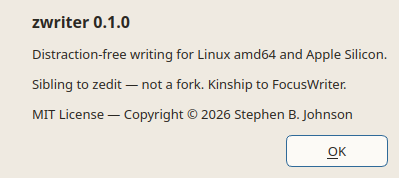
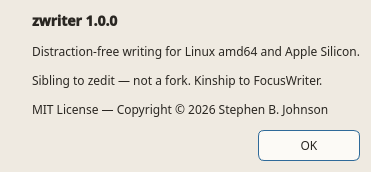
Release 1.0.0
- project(zwriter VERSION 1.0.0): About, version.hpp and CPack names
  (zwriter-1.0.0-Linux-amd64.deb, zwriter-1.0.0-Darwin.dmg).
- ODT meta:generator now reports the real version instead of a
  hard-coded "zwriter/0.1".
- Add CHANGELOG.md with the 1.0.0 entry.
- README: 1.0.0 status and Releases link; spell out the macOS .dmg
  caveat (bare binary, Homebrew Qt, unsigned); refresh about.png.

diff --git a/src/DocumentMeta.cpp b/src/DocumentMeta.cpp
@@ -1,4 +1,5 @@
 #include "DocumentMeta.hpp"
+#include "version.hpp"
 
 #include <QTimeZone>
 
@@ -108,7 +109,7 @@ QString buildMetaXml(const DocumentMeta &meta)
     if (meta.lastEdited.isValid()) {
         w.writeTextElement(QStringLiteral("dc:date"), toOdfDate(meta.lastEdited));
     }
-    w.writeTextElement(QStringLiteral("meta:generator"), QStringLiteral("zwriter/0.1"));
+    w.writeTextElement(QStringLiteral("meta:generator"), QStringLiteral("zwriter/") + QString::fromUtf8(zwriter::kVersionString));
 
     auto writeUser = [&w](const QString &name, const QString &value) {
         w.writeStartElement(QStringLiteral("meta:user-defined"));

diff --git a/CHANGELOG.md b/CHANGELOG.md
@@ -1,0 +1,44 @@
+# Changelog
+
+All notable changes to zwriter. Versions follow [Semantic Versioning](https://semver.org/);
+the version lives only in `project(zwriter VERSION …)` in `CMakeLists.txt`.
+
+## [1.0.0] — 2026-09-24
+
+First stable release. Linux amd64 and Apple Silicon only.
+
+### Features
+- Distraction-free Qt 6 Widgets writer: hide-away chrome (Esc to pin/unpin, F11 full screen),
+  a quiet toolbar (font, size, B/I/U, paragraph style) and five menus: File, Edit, Format, View, Help.
+- Files: ODT is the native default save format; TXT and basic RTF open/save; PDF export only.
+  Open files from the command line or a file manager (Open With / double-click).
+- Full Page view (default on): multi-page A4 at true physical size, stacked pages, Page N of M
+  in the status bar; print and PDF match the screen. Default body font is Courier-class
+  monospace at 12 pt.
+- Themes: Paper and ink (paper-white, default) and Dark room.
+- Headers and footers with `{page}` / `{pages}` tokens; page numbers are opt-in
+  (Format → Page Numbers, off by default).
+- Manual page breaks (Ctrl+Enter), tables (insert, merged cells from ODT, add/remove rows and
+  columns), headings 1–3, alignment, bulleted/numbered/nested lists.
+- Hunspell en_US spell check (default on) with suggestions, ignore and user dictionary.
+- Typewriter scrolling, focus mode (paragraph or sentence), find/replace, recent files,
+  smart quotes and dashes, word/character count and reading time.
+- Optional typewriter key sounds (default off).
+- Print, print preview and page setup; document properties (author, created, last edit) in ODT
+  `meta.xml`.
+- Help → About and Help → Check for Updates (GitHub latest release).
+- CI builds and packages `zwriter-1.0.0-Linux-amd64.deb` and `zwriter-1.0.0-Darwin.dmg`,
+  and runs the ODT round-trip test on both platforms.
+
+### Known limitations
+- ODT round-trips text (including repeated spaces, tabs, line breaks), fonts/sizes, bold/italic/
+  underline, headings 1–3, alignment, lists, tables incl. merged cells, blank paragraphs, page
+  breaks, header/footer and properties. It drops colours, images, footnotes, links, custom
+  paragraph spacing/indents and per-table styling (custom table borders are lost). Heading and
+  metadata saving need the `zip`/`unzip` tools.
+- Typing slows down on very long documents (roughly 12 ms per keystroke at ~370 pages, ~48 ms at
+  ~1,500 pages), because Qt re-lays out the rest of the document on each edit.
+- The macOS `.dmg` contains a bare arm64 `zwriter` executable, not a `.app` bundle. It links
+  Homebrew Qt and Hunspell under `/opt/homebrew` (`brew install qt hunspell` is required), and it
+  is unsigned and not notarized, so Gatekeeper blocks the first launch (Control-click → Open, or
+  `xattr -d com.apple.quarantine zwriter`).

diff --git a/README.md b/README.md
@@ -20,7 +20,8 @@ Public repository: https://github.com/sbj-ee/zwriter
 
 ## Status
 
-Working **v1 feature core** on a dark distraction-free `QTextEdit` surface.
+**1.0.0** — first stable release. Downloads (Linux amd64 `.deb`, Apple Silicon `.dmg`) are on the
+[Releases page](https://github.com/sbj-ee/zwriter/releases); changes are in [CHANGELOG.md](CHANGELOG.md).
 
 ### Implemented now
 
@@ -58,7 +59,7 @@ Working **v1 feature core** on a dark distraction-free `QTextEdit` surface.
 - Daily word / time goal, scene / chapter navigation
 - Richer ODT/RTF style round-trip (colours, images, footnotes, per-table styling — reopened tables always get the standard border/padding); RTF is plain-text-oriented best-effort
 - ODT Properties: body save is real; metadata is patched via `unzip`/`zip` into `meta.xml` (requires those tools). If patch fails, body still saves and a status message notes it. Headings are written as `text:h` the same way (a patch of `content.xml`); without `zip` they save as styled paragraphs and reopen as body text
-- macOS `.dmg` ships the binary (not a full `.app` + macdeployqt bundle yet)
+- macOS `.dmg` holds a bare arm64 `zwriter` executable (plus `share/zwriter/assets`), not a `.app` bundle. It is not built with macdeployqt: it links Homebrew Qt and Hunspell under `/opt/homebrew`, so `brew install qt hunspell` is required. It is unsigned and not notarized, so Gatekeeper blocks the first launch (Control-click → Open, or `xattr -d com.apple.quarantine zwriter`); double-clicking it opens Terminal. A proper `.app` is planned
 - Status extras (pages / paragraphs) — later
 - Mouse-drag selection does not auto-scroll past the window edge in Full Page view (scroll, then shift-click); no widow/orphan control or keep-with-next
 
@@ -134,7 +135,7 @@ ODT open uses `unzip` to read `content.xml` / `meta.xml` (Linux + macOS). Prefer
 a version header.
 
 ```cmake
-project(zwriter VERSION 0.1.0 LANGUAGES CXX)  # example bump
+project(zwriter VERSION 1.0.0 LANGUAGES CXX)  # bump here only
 ```
 
 Semver `MAJOR.MINOR.PATCH`. GitHub Release tags: `vX.Y.Z`. Artifacts:
